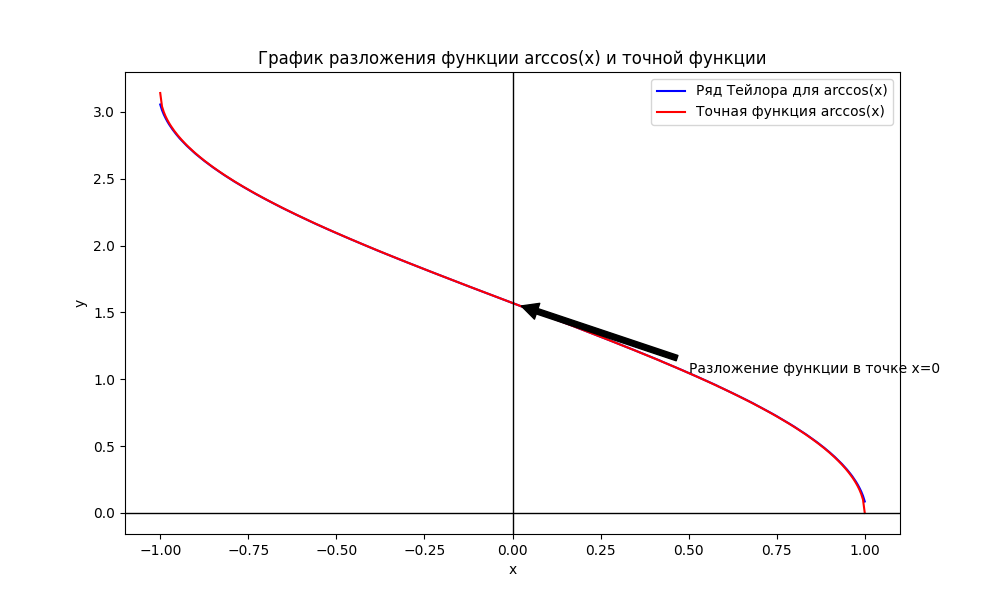
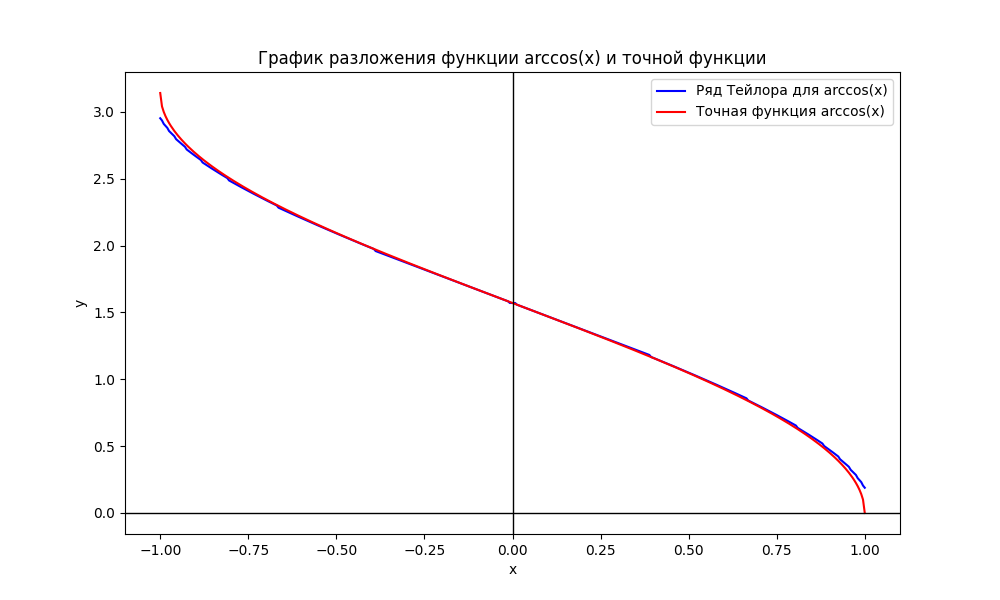
Выполнено 4 задание

diff --git a/IGI/LR4/main.py b/IGI/LR4/main.py
@@ -1,9 +1,8 @@
-import csv
-
 from functions.working_with_data_questionnaires import WorkingWithDataQuestionnaires
 from functions.serialization_and_deserialization import SerializationAndDeserialization
 from functions.text_analysis import TextAnalysis
 from functions.power_series_expansion import PowerSeriesExpansion
+from functions.working_with_classes import Rectangle, Circle, Square, Rhombus, Triangle, RegularPolygon
 from functions.check_input_user import check_input_user_int
 from functions.check_input_user import check_input_user_double
 
@@ -17,7 +16,7 @@ while True:
         "1) Работа с анкетными данными\n"
         "2) Обработка текста из файла\n"
         "3) Разложение arccos(x) в степенной ряд\n"
-        "4) \n"
+        "4) Работа с классами геометрических фигур\n"
         "5) \n"
         "6) Закрыть программу")
     
@@ -51,10 +50,107 @@ while True:
 
     elif choise_user == 3:
         print("Введите х в пределах от -1 до 1:")
-        x = check_input_user_int()
+        x = check_input_user_double()
         print("Введите погрешность в пределах от 0 до 1:")
         eps = check_input_user_double()
         power_series_expansion.power_series_expansion_result(x, eps)
+
+    elif choise_user == 4:
+        if __name__ == "__main__":
+            while True:
+                print("Какую геометрическую фигуру хотите создать?\n"
+                "1) Прямоугольник\n"
+                "2) Круг\n"
+                "3) Ромб\n"
+                "4) Квадрат\n"
+                "5) Треуголиньк\n"
+                "6) Правильный n-угольник\n"
+                "7) Выйти")
+                choise_user = check_input_user_int()
+
+                if choise_user == 1:
+                    print("Введите ширину прямоуольника:")
+                    width = check_input_user_double()
+
+                    print("Введите длину прямоуольника:")
+                    height = check_input_user_double()
+
+                    print("Введите цвет фигуры (на английском языке):")
+                    color = str(input())
+
+                    rectangle = Rectangle(width, height, color)
+                    print(rectangle.get_info())
+
+                elif choise_user == 2:
+                    print("Введите радиус окружности:")
+                    radius = check_input_user_double()
+
+                    print("Введите цвет фигуры (на английском языке):")
+                    color = str(input())
+
+                    circle = Circle(radius, color)
+                    print(circle.get_info())
+
+                elif choise_user == 3:
+                    print("Введите первую диагональ:")
+                    d1 = check_input_user_double()
+
+                    print("Введите вторую диагональ:")
+                    d2 = check_input_user_double()
+
+                    print("Введите цвет фигуры (на английском языке):")
+                    color = str(input())
+
+                    rhombus = Rhombus(d1, d2, color)
+                    print(rhombus.get_info())
+
+                elif choise_user == 4:
+                    print("Введите сторону квадрата:")
+                    side = check_input_user_double()
+
+                    print("Введите цвет фигуры (на английском языке):")
+                    color = str(input())
+                    
+                    square = Square(side, color)
+                    print(square.get_info())
+
+                elif choise_user == 5:
+                    print("Введите основание треугольника:")
+                    base = check_input_user_double()
+
+                    print("Введите высоту треугольника:")
+                    height = check_input_user_double()
+
+                    print("Введите цвет фигуры (на английском языке):")
+                    color = str(input())
+
+                    triangle = Triangle(base, height, color)
+                    print(triangle.get_info())
+
+                elif choise_user == 6:
+                    print("Введите количество сторон правильного n-угольника:")
+                    n = check_input_user_int()
+
+                    print("Введите длину стороны правильного n-угольника:")
+                    a = check_input_user_double()
+
+                    print("Введите цвет фигуры (на английском языке):")
+                    color = str(input())
+
+                    print("Введите текст, который будет подписывать фигуру:")
+                    label = str(input())
+
+                    regular_polygon = RegularPolygon(n, a, color)
+                    print(regular_polygon.get_info())
+
+                    filename = "D:\\IGI_Labs\\IGI\\LR4\\file_work\\regular_polygon.png"
+                    regular_polygon.draw(filename, label)
+
+                elif choise_user == 7:
+                    break
+
+                else:
+                    print("Введите цифру от 1 до 7!")
 
     elif choise_user == 6:
         break

diff --git a/IGI/LR4/functions/working_with_classes.py b/IGI/LR4/functions/working_with_classes.py
@@ -1,0 +1,139 @@
+from abc import ABC, abstractmethod
+import math
+import matplotlib.pyplot as plt
+import numpy as np
+
+class GeometricFigure(ABC): 
+    def __init__(self, name):
+        self._name = name
+    
+    @abstractmethod
+    def square_figure(self):
+        pass
+
+    def get_name(self):
+        return self._name
+
+class ColorFigure:
+    def __init__(self, color):
+        self._color = color
+
+    @property
+    def color(self):
+        return self._color
+    
+    @color.setter
+    def color(self, new_color):
+        self._color = new_color
+
+class Rectangle(GeometricFigure):
+    def __init__(self, width, height, color):
+        super().__init__("Прямоугольник")
+        self.width = width
+        self.height = height
+        self.color_figure = ColorFigure(color)
+
+    def square_figure(self):
+        return self.width * self.height
+
+    def get_info(self):
+        return "Фигура: {0}, ширина: {1}, высота: {2}, цвет: {3}, площадь: {4:.2f}".format(
+            self.get_name(), self.width, self.height, self.color_figure.color, self.square_figure()
+        )
+
+class Circle(GeometricFigure):
+    def __init__(self, radius, color):
+        super().__init__("Круг")
+        self.radius = radius
+        self.color_figure = ColorFigure(color)
+
+    def square_figure(self):
+        return math.pi * self.radius ** 2
+
+    def get_info(self):
+        return "Фигура: {0}, радиус: {1}, цвет: {2}, площадь: {3:.2f}".format(
+            self.get_name(), self.radius, self.color_figure.color, self.square_figure()
+        )
+
+
+class Rhombus(GeometricFigure):
+    def __init__(self, d1, d2, color):
+        super().__init__("Ромб")
+        self.d1 = d1
+        self.d2 = d2
+        self.color_figure = ColorFigure(color)
+
+    def square_figure(self):
+        return (self.d1 * self.d2) / 2
+
+    def get_info(self):
+        return "Фигура: {0}, диагонали: {1} и {2}, цвет: {3}, площадь: {4:.2f}".format(
+            self.get_name(), self.d1, self.d2, self.color_figure.color, self.square_figure()
+        )
+
+
+class Square(GeometricFigure):
+    def __init__(self, side, color):
+        super().__init__("Квадрат")
+        self.side = side
+        self.color_figure = ColorFigure(color)
+
+    def square_figure(self):
+        return self.side ** 2
+
+    def get_info(self):
+        return "Фигура: {0}, сторона: {1}, цвет: {2}, площадь: {3:.2f}".format(
+            self.get_name(), self.side, self.color_figure.color, self.square_figure()
+        )
+
+
+class Triangle(GeometricFigure):
+    def __init__(self, base, height, color):
+        super().__init__("Треугольник")
+        self.base = base
+        self.height = height
+        self.color_figure = ColorFigure(color)
+
+    def square_figure(self):
+        return 0.5 * self.base * self.height
+
+    def get_info(self):
+        return "Фигура: {0}, основание: {1}, высота: {2}, цвет: {3}, площадь: {4:.2f}".format(
+            self.get_name(), self.base, self.height, self.color_figure.color, self.square_figure()
+        )
+
+
+class RegularPolygon(GeometricFigure):
+    def __init__(self, n, a, color):
+        if n < 3:
+            raise ValueError("У правильного многоугольника должно быть минимум 3 стороны.")
+        super().__init__(f"Правильный {n}-угольник")
+        self.n = n
+        self.a = a
+        self.color_figure = ColorFigure(color)
+
+    def square_figure(self):
+        return (self.n * self.a ** 2) / (4 * math.tan(math.pi / self.n))
+
+    def get_info(self):
+        return "Фигура: {0}, количество сторон: {1}, длина стороны: {2}, цвет: {3}, площадь: {4:.2f}".format(
+            self.get_name(), self.n, self.a, self.color_figure.color, self.square_figure()
+        )
+    
+    def draw(self, filename, label=""):
+        angles = np.linspace(0, 2 * np.pi, self.n, endpoint=False)
+        
+        x = self.a * np.cos(angles)
+        y = self.a * np.sin(angles)
+        
+        x = np.append(x, x[0])  
+        y = np.append(y, y[0])
+        
+        fig, ax = plt.subplots()
+        ax.fill(x, y, self.color_figure.color)  
+        
+        ax.text(0, 0, label, ha='center', va='center', fontsize=12, color='black')
+
+        plt.savefig(filename)
+        plt.show()
+        plt.close()

diff --git a/IGI/LR4/functions/power_series_expansion.py b/IGI/LR4/functions/power_series_expansion.py
@@ -143,8 +143,6 @@ class PowerSeriesExpansion:
         plt.ylabel('y')
         plt.title('График разложения функции arccos(x) и точной функции')
         plt.legend()
-        plt.annotate('Разложение функции в точке x=0', xy=(0, np.pi/2), xytext=(0.5, np.pi/3),
-             arrowprops=dict(facecolor='black', shrink=0.05))
         plt.axhline(0, color='black',linewidth=1)
         plt.axvline(0, color='black',linewidth=1)
         plt.savefig('D:\\IGI_Labs\\IGI\\LR4\\file_work\\arccos_expansion_plot.png')
@@ -152,6 +150,7 @@ class PowerSeriesExpansion:
         return None
     
     def power_series_expansion_result(self, x, eps):
+        print("arccos(x) = ", self.power_series_expansion(x, eps))
         print("Среднее значение всех элементов суммы ряда: ", self.power_series_expansion(x,eps))
         print("Медиана всех элементов суммы ряда: ", self.median_of_elements(x, eps))
         print("Мода всех элементов суммы ряда: ", self.mode_of_elements(x, eps))
